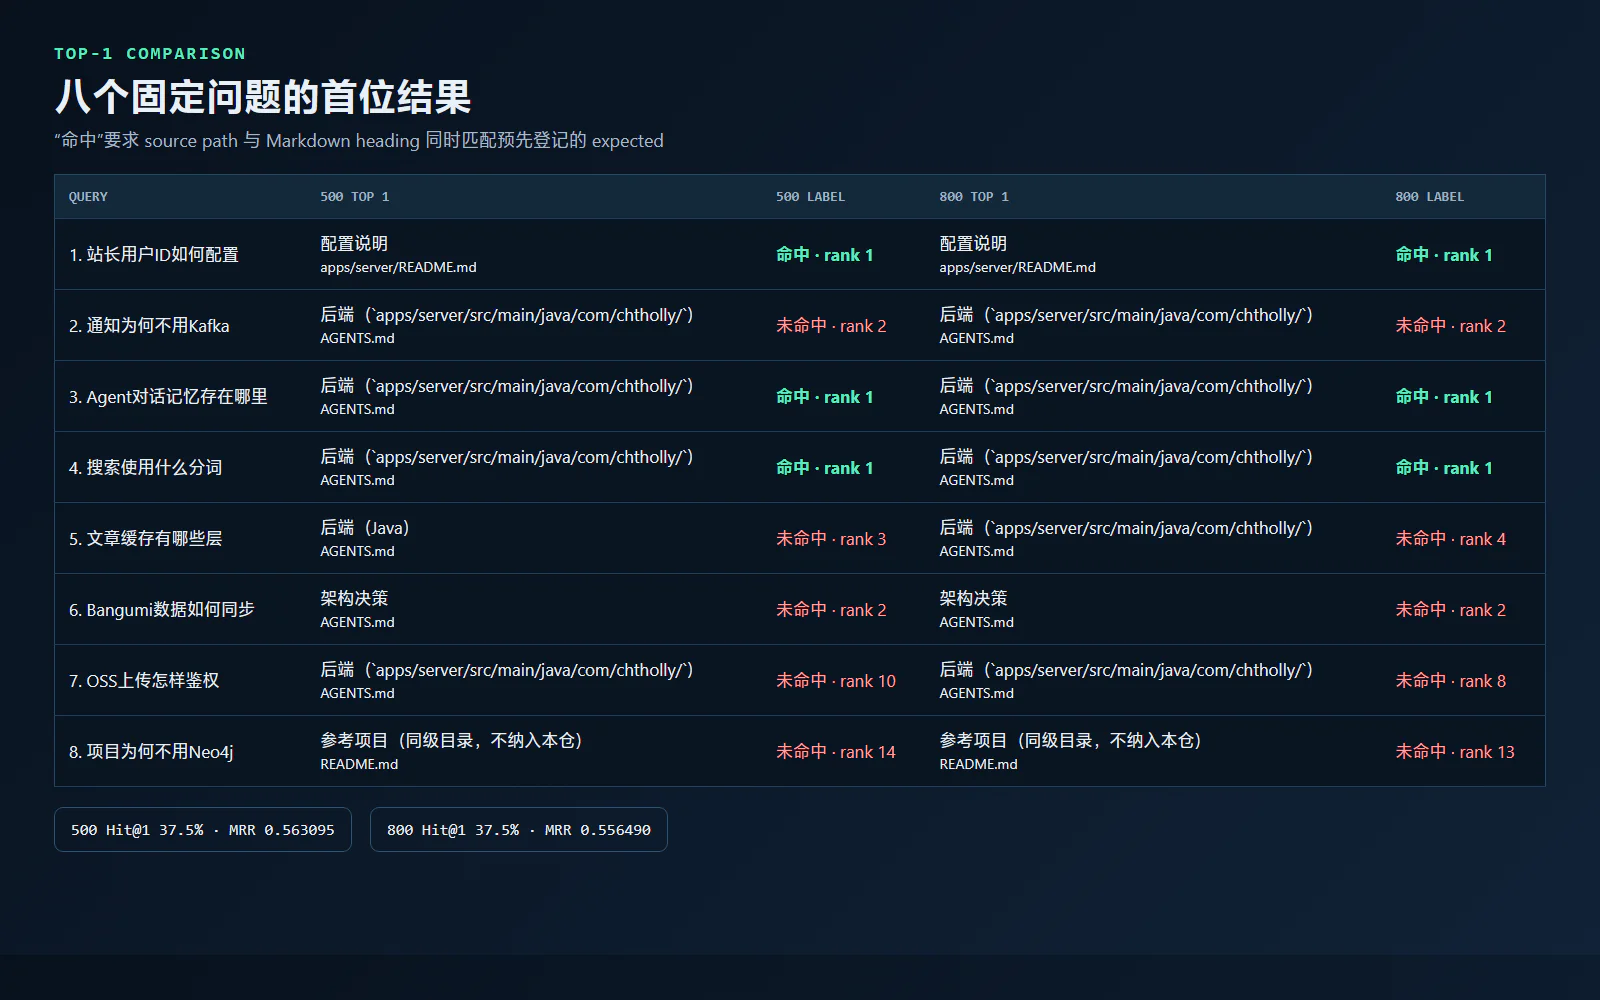
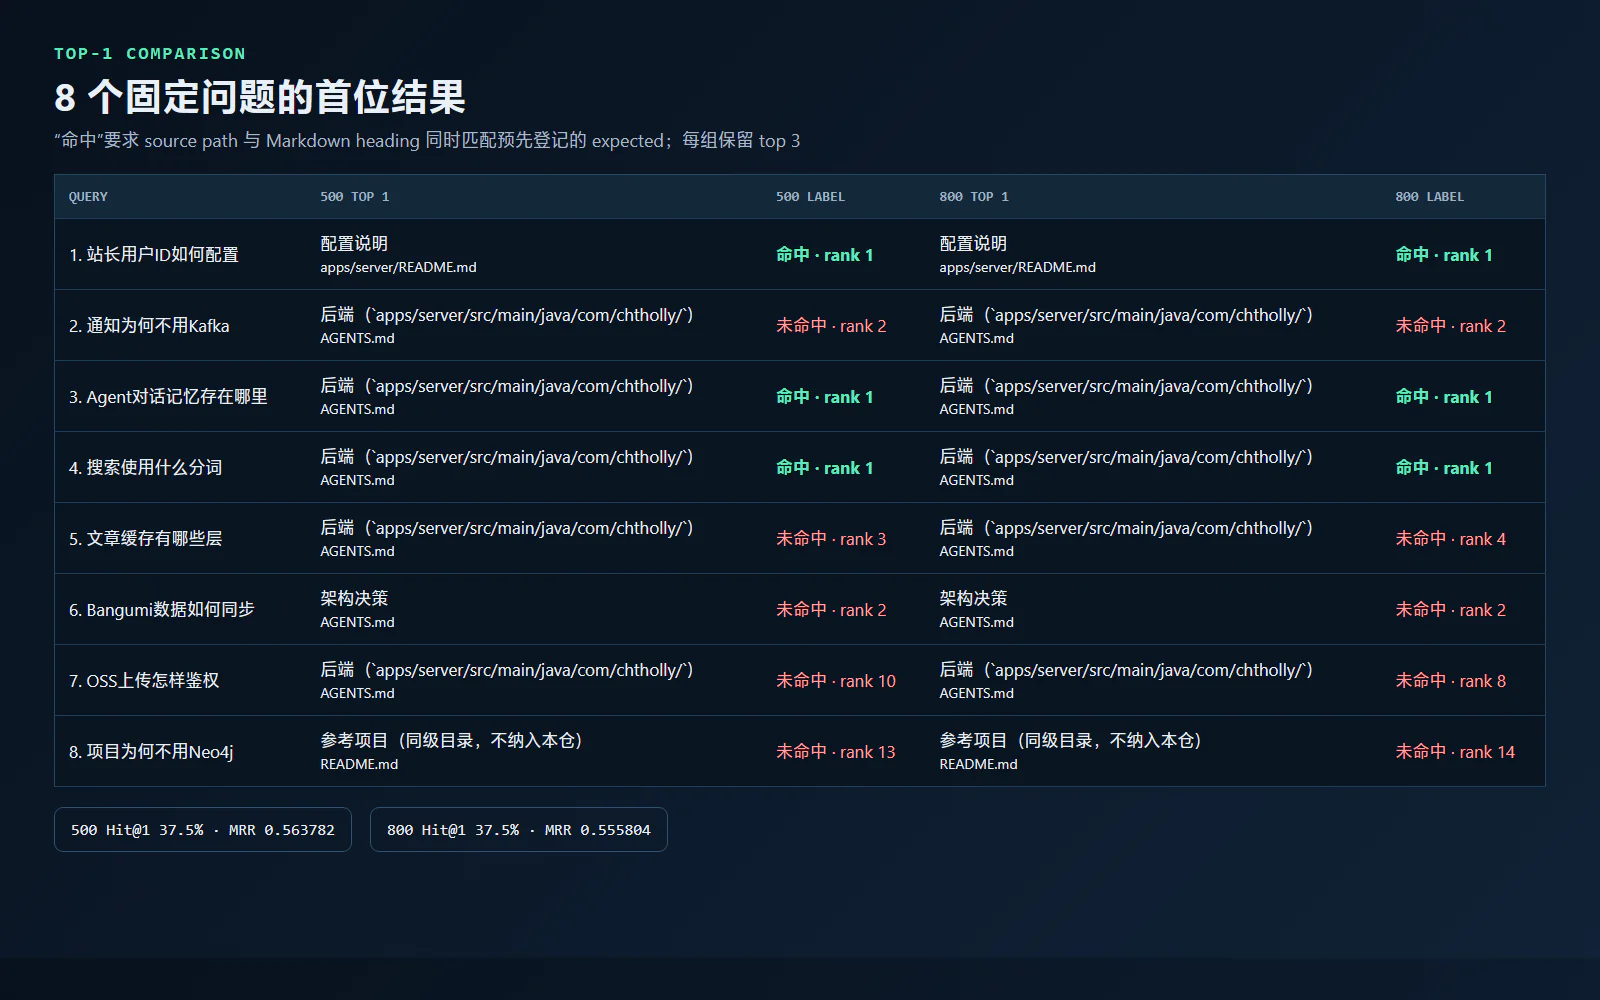
fix: 修正 RAG 切片实验二元组口径

diff --git a/content/seed/content-v3/posts/rag-chunk-size-regression.md b/content/seed/content-v3/posts/rag-chunk-size-regression.md
@@ -1,4 +1,4 @@
-我把仓库里的几份 Markdown 拉出来做了一个很小的切片实验。起因也很普通：字符窗口从 500 调到 800，看起来只是少切几段，检索排名会不会跟着变？我不想拿一条顺眼的查询讲故事，于是先固定语料、问题和判定标签，再跑两组参数。结果没有戏剧性：Hit@1 都是 37.5%，500 字符的 MRR 是 0.563095，800 字符是 0.556490。后者低了 0.006605，但八个问题里既有下降，也有改善。
+我把仓库里的几份 Markdown 拉出来做了一个很小的切片实验。起因也很普通：字符窗口从 500 调到 800，看起来只是少切几段，检索排名会不会跟着变？我不想拿一条顺眼的查询讲故事，于是先固定语料、问题和判定标签，再跑两组参数。结果没有戏剧性：Hit@1 都是 37.5%，500 字符的 MRR 是 0.563782，800 字符是 0.555804。后者低了 0.007978，但八个问题里既有下降，也有改善。
 
 这里的 TF-IDF 是无模型基线。实验没有调用 LLM，没有使用外部 embedding，也没有接入项目里的向量索引。它只能描述这套公开语料、分词和字符窗口组合下的词面检索表现，不能代替完整 RAG 系统的评估。
 
@@ -18,7 +18,7 @@
 
 脚本先识别 Markdown heading，并忽略 fenced code 中看起来像标题的 `#` 命令注释。每个 heading 段落独立切窗，窗口单位是 Python 字符串的 Unicode 字符，也就是脚本里的 code point 计数。两组 chunk size 分别为 500 和 800，overlap 都是 80；步长固定为 `chunk_size - overlap`。段落不足一个窗口时保留为一个 chunk，窗口不会跨过 heading 边界。
 
-分词只做很朴素的词面展开：中文保留单字，并加入相邻中文二元组；英文与数字按连续 token 提取后转小写。脚本用全部 chunk 计算 TF-IDF，再对查询和 chunk 做余弦相似度。排序先按 score 降序；同分时按 source path、chunk index 升序，取 top 3。这样的规则不懂语义，但容易复跑，也把边界写得足够清楚。
+分词只做很朴素的词面展开：中文保留单字，并且只在同一段连续汉字 run 内加入相邻二元组；英文与数字按连续 token 提取后转小写。英文、标点或换行隔开的两个汉字不会拼成二元组。脚本用全部 chunk 计算 TF-IDF，再对查询和 chunk 做余弦相似度。排序先按 score 降序；同分时按 source path、chunk index 升序，取 top 3。这样的规则不懂语义，但容易复跑，也把边界写得足够清楚。
 
 500 字符方案得到 62 个 chunk，800 字符方案得到 51 个。指标采用 Hit@1 和 MRR。Hit@1 检查 expected 是否位于第一名；MRR 使用 expected 首次出现排名的倒数，八问再取平均。expected 掉出 top 3 时仍会从完整排序中计算名次，因此图里的 top 3 列表和 MRR 不是同一个截断口径。
 
@@ -34,7 +34,7 @@
 
 两组都只有三问排在第一：站长配置、Agent 对话记忆、搜索分词。通知和 Bangumi 的 expected 都排第二。它们的 top 1 落在同一份 `AGENTS.md` 的其他段落，说明词面相似度找到相关文件不等于找到预先指定的回答段落。
 
-另外三问更难看。500 字符时，文章缓存的 expected 排第三，OSS 排第十，Neo4j 排第十四；800 字符时分别是第四、第八、第十三。较大窗口让 OSS 和 Neo4j 的名次略有改善，却让缓存问题退后一位。只看总体 MRR，会漏掉这个方向不一致的条件反例；只看 Hit@1，则三处移动全被压成同一个“未命中”。
+另外三问更难看。500 字符时，文章缓存的 expected 排第三，OSS 排第十，Neo4j 排第十三；800 字符时分别是第四、第八、第十四。较大窗口让 OSS 的名次改善，却让缓存和 Neo4j 各退后一位。只看总体 MRR，会漏掉这个方向不一致的条件反例；只看 Hit@1，则三处移动全被压成同一个“未命中”。
 
 ## 缓存问题为何贡献了下降
 
@@ -46,13 +46,13 @@
 
 这个例子没有显示较长窗口必然稀释关键词。它只记录当前分段和 IDF 下，额外上下文改变了几个相近段落的向量长度与词频，排序随后换位。OSS 与 Neo4j 的改善也在提醒我，同一种改动可以对不同查询产生相反影响。若把八问换成另一批表达，结论很可能继续变。
 
-还有一个口径上的提醒：表格把“首位是否命中”和“expected 的完整排名”放在一起。OSS 从第十到第八、Neo4j 从第十四到第十三，对 MRR 有正向贡献，却依旧是 Hit@1 未命中；缓存从第三到第四对 MRR 有负向贡献，也同样是 Hit@1 未命中。两个指标关注的距离不同，不能互相替换。若线上只展示一条引用，Hit@1 更贴近用户看到的结果；若还会读取多段候选，MRR 提供了额外的排序信息。
+还有一个口径上的提醒：表格把“首位是否命中”和“expected 的完整排名”放在一起。OSS 从第十到第八，对 MRR 有正向贡献，却依旧是 Hit@1 未命中；缓存从第三到第四、Neo4j 从第十三到第十四，对 MRR 有负向贡献，也同样是 Hit@1 未命中。两个指标关注的距离不同，不能互相替换。若线上只展示一条引用，Hit@1 更贴近用户看到的结果；若还会读取多段候选，MRR 提供了额外的排序信息。
 
-八个问题中有三个 expected 在第一名，两个在第二名，另外三个离首位较远。这个分布让总体数值很容易被单问推动。缓存一问从三到四已经足以拉低均值，OSS 和 Neo4j 的小幅改善又抵消了一部分。把 0.006605 写成明显优势会过头，把它忽略也会丢掉可检查的变化。我更愿意同时报数值、逐问排名和样本规模。
+八个问题中有三个 expected 在第一名，两个在第二名，另外三个离首位较远。这个分布让总体数值很容易被单问推动。缓存和 Neo4j 各退一位，OSS 的小幅改善又抵消了一部分。把 0.007978 写成明显优势会过头，把它忽略也会丢掉可检查的变化。我更愿意同时报数值、逐问排名和样本规模。
 
 ## 我愿意从这次结果带走什么
 
[2 lines of base64/hex data omitted]
 
 另一个是单个汇总数不适合替逐问表收尾。这里 Hit@1 完全持平，MRR 只小幅下降，逐问却同时出现退步、改善与不变。继续实验时，我会扩充真实查询，单独标记没有答案的问题，再观察不同 heading 密度、文档长度和问法改写。若换成 embedding，还要重新建立基线和标签审计，不能沿用这次 TF-IDF 的判断。
 